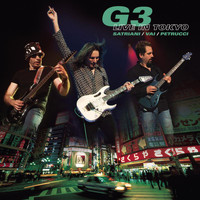
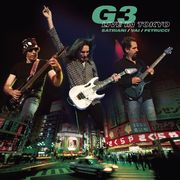
Changed album art API to deezer, library is larger
Comments will need changing

diff --git a/css/style.css b/css/style.css
@@ -22,6 +22,20 @@ nav .brand-logo {
     margin-left: 20px;   
 }
 
+#tabs-wrapper {
+    
+}
+
+#top-controls {
+    position: relative;
+    overflow: hidden;
+    padding: 20px 20px 0 20px;
+}
+
+#top-controls > .row {
+    margin-bottom: 0;
+}
+
 .music-container {
     display: flex;
     flex-wrap: wrap;
@@ -54,11 +68,6 @@ nav .brand-logo {
 .track-artist {
     font-weight: 700;
     display: block;
-}
-
-#top-controls {
-    overflow: hidden;
-    padding: 20px 20px 0 20px;
 }
 
 #audio-player {

diff --git a/index.php b/index.php
@@ -20,23 +20,30 @@
         <main>
 
             <div id="top-controls">
-                <div class="left">
-
-                </div>
-
-                <div class="right">
-                    <label>Sort By: </label>
-                    <select id="sort-by" class="browser-default">
-                        <option value="" disabled selected>Choose your option</option>
-                        <option value="1">Title (Asc)</option>
-                        <option value="2">Title (Desc)</option>
-                        <option value="3">Artist (Asc)</option>
-                        <option value="4">Artist (Desc)</option>
-                        <option value="5">Album (Asc)</option>
-                        <option value="6">Album (Desc)</option>
-                        <option value="7">Duration (Asc)</option>
-                        <option value="8">Duration (Desc)</option>
-                    </select>
+                <div class="row">
+                    <div class="col s6">
+                        <ul class="tabs">
+                            <li class="tab col s3"><a class="active" href="#music-container">Tracks</a></li>
+                            <li class="tab col s3"><a href="#albums-container">Albums</a></li>
+                            <li class="tab col s3"><a href="#artists-container">Artists</a></li>
+                            <li class="tab col s3"><a href="#playlists-container">Playlists</a></li>
+                        </ul>
+                    </div>
+                    <div class="col s6">
+                        <div class="right">
+                            <select id="sort-by" class="browser-default">
+                                <option value="" disabled selected>Sort By</option>
+                                <option value="1">Title (Asc)</option>
+                                <option value="2">Title (Desc)</option>
+                                <option value="3">Artist (Asc)</option>
+                                <option value="4">Artist (Desc)</option>
+                                <option value="5">Album (Asc)</option>
+                                <option value="6">Album (Desc)</option>
+                                <option value="7">Duration (Asc)</option>
+                                <option value="8">Duration (Desc)</option>
+                            </select>
+                        </div>
+                    </div>
                 </div>
             </div>
 

diff --git a/php/update_library.php b/php/update_library.php
@@ -109,13 +109,16 @@ foreach($foundTracks as $file) {
         }
         else {
             $key = "RAJWTI0UETKYDZE6R";
+            $secret = "32fbc9323bfc1d55ef9c6b6d76e4515b";
 
             $artistEncoded = urlencode($artist); // make sure to url encode an query parameters
             $titleEncoded = urlencode($title);
 
             // construct the query with our apikey and the query we want to make
-            $endpoint = 'http://developer.echonest.com/api/v4/song/search?api_key=' . $key . '&format=json&results=1&artist=' . $artistEncoded . 
-                '&title=' . $titleEncoded . '&bucket=id:7digital-US&bucket=tracks';
+            /*$endpoint = 'http://developer.echonest.com/api/v4/song/search?api_key=' . $key . '&format=json&results=1&artist=' . $artistEncoded . 
+                '&title=' . $titleEncoded . '&bucket=id:7digital-US&bucket=tracks';*/
+            
+            $endpoint = "http://api.deezer.com/search?q=artist:%27" . $artistEncoded . "%27%20track:%27" . $titleEncoded . "%27&limit=2&output=json";
 
             // setup curl to make a call to the endpoint
             $session = curl_init($endpoint);
@@ -128,16 +131,16 @@ foreach($foundTracks as $file) {
 
             // remember to close the curl session once we are finished retrieving the data
             curl_close($session);
-
+            
             // decode the json data to make it easier to parse the php
             $search_results = json_decode($data);
-
+            
             if ($search_results === NULL) die('Error parsing json');
 
             $artURL = null;
 
-            if($search_results->response->status->code == 0) { //API returned a successful result
-                $artURL = $search_results->response->songs[0]->tracks[0]->release_image;
+            if($search_results->total > 0) { //API returned a successful result
+                $artURL = $search_results->data[0]->album->cover;
             }
 
             if($artURL != null) { //We found the album art

diff --git a/README.md b/README.md
@@ -35,3 +35,4 @@ Web player working
  * Folder structure organising
  * Playlists
  * Speed up library update
+ * Incorrect track name bug
